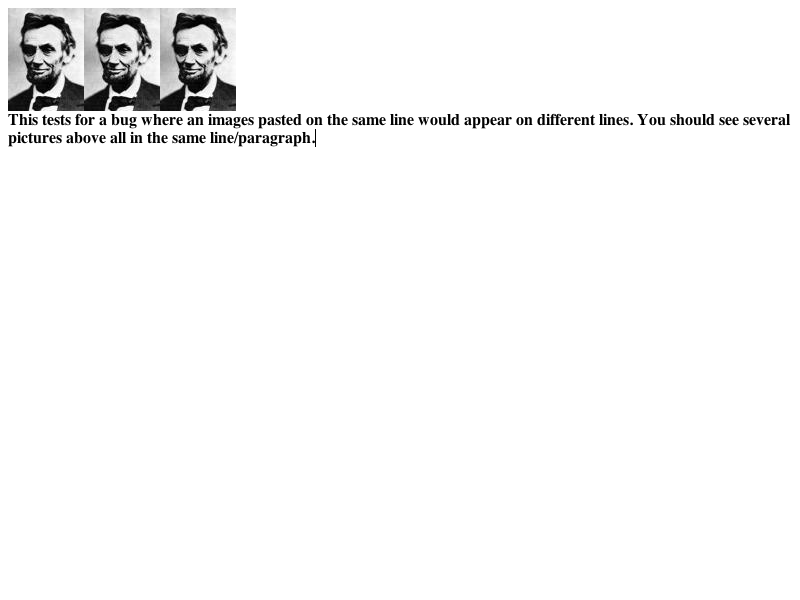
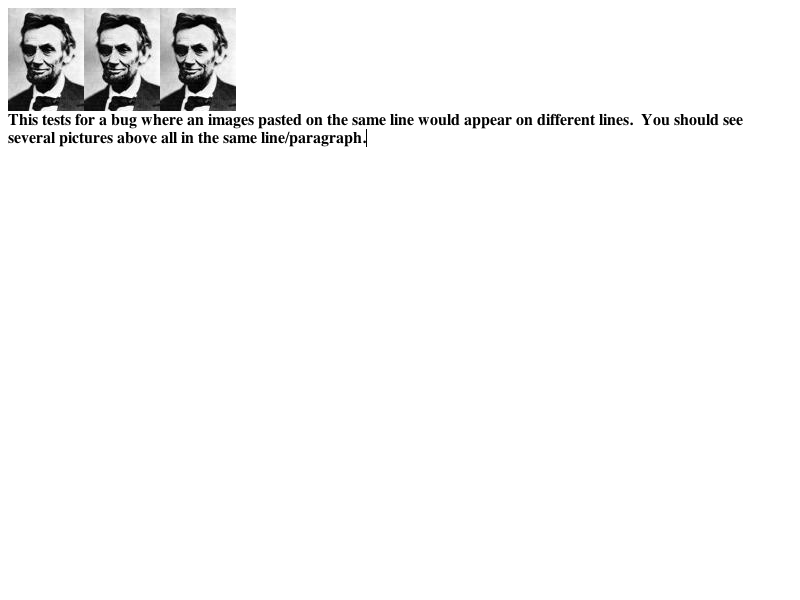
LayoutTests:
Reviewed by darin

        <rdar://problem/5002441>
        Pressing space key does nothing above quoted content or a signature

        Demonstrates the bug:
        * editing/inserting/5002441-expected.checksum: Added.
        * editing/inserting/5002441-expected.png: Added.
        * editing/inserting/5002441-expected.txt: Added.
        * editing/inserting/5002441.html: Added.

        Fixed.  Spaces passed to execCommand("InsertText", ...)
        are no longer collapsed:
        * editing/inserting/editable-html-element-expected.checksum:
        * editing/inserting/editable-html-element-expected.png:
        * editing/inserting/editable-html-element-expected.txt:
        * editing/pasteboard/4989774-expected.checksum:
        * editing/pasteboard/4989774-expected.png:
        * editing/pasteboard/4989774-expected.txt:
        * editing/selection/4983858-expected.checksum:
        * editing/selection/4983858-expected.png:
        * editing/selection/4983858-expected.txt:

WebCore:

        Reviewed by darin

        <rdar://problem/5002441>
        Pressing space key does nothing above quoted content or a signature

        Inserting a space under these circumstances inserts a single
        text node containing a regular space and then does a layout.
        That space isn't rendered (which is correct).  Whitespace
        rebalancing is supposed to correct it but failed.  It replaces
        the space with a non-breaking space, but that change doesn't
[…]

Changed region(s): [[0.0, 0.21, 0.4688, 0.24], [0.7812, 0.18, 1.0, 0.21]]

diff --git a/LayoutTests/editing/inserting/5002441.html b/LayoutTests/editing/inserting/5002441.html
@@ -1,0 +1,8 @@
+<p>This tests for a bug where spaces couldn't be inserted before signatures and replies.</p>
+<div id="div" contenteditable="true"><br><div>There should be a single space in the paragraph above.</div></div>
+<script>
+var div = document.getElementById("div");
+var selection = window.getSelection();
+selection.setPosition(div, 0);
+document.execCommand("InsertText", false, " ");
+</script>

diff --git a/WebCore/editing/InsertTextCommand.cpp b/WebCore/editing/InsertTextCommand.cpp
@@ -26,6 +26,7 @@
 #include "config.h"
 #include "InsertTextCommand.h"
 
+#include "CharacterNames.h"
 #include "CSSMutableStyleDeclaration.h"
 #include "CSSComputedStyleDeclaration.h"
 #include "Document.h"
@@ -63,15 +64,9 @@ Position InsertTextCommand::prepareForTextInsertion(const Position& p)
     }
     // Prepare for text input by looking at the specified position.
     // It may be necessary to insert a text node to receive characters.
-    // FIXME: What is the rootEditable() check about?  Seems like it
-    // assumes that the content before (or after) pos.node() is editable
-    // (i.e. pos is at an editable/non-editable boundary).  That seems
-    // like a bad assumption.
     if (!pos.node()->isTextNode()) {
         RefPtr<Node> textNode = document()->createEditingTextNode("");
-
         insertNodeAt(textNode.get(), pos);
-        
         return Position(textNode.get(), 0);
     }
 
@@ -84,12 +79,21 @@ Position InsertTextCommand::prepareForTextInsertion(const Position& p)
     return pos;
 }
 
-void InsertTextCommand::input(const String &text, bool selectInsertedText)
+void InsertTextCommand::input(const String& originalText, bool selectInsertedText)
 {
+    String text = originalText;
+    
     ASSERT(text.find('\n') == -1);
 
     if (endingSelection().isNone())
         return;
+        
+    if (RenderObject* renderer = endingSelection().start().node()->renderer())
+        if (renderer->style()->collapseWhiteSpace())
+            // Turn all spaces into non breaking spaces, to make sure that they are treated
+            // literally, and aren't collapsed after insertion. They will be rebalanced 
+            // (turned into a sequence of regular and non breaking spaces) below.
+            text.replace(' ', noBreakSpace);
     
     // Delete the current selection.
     // FIXME: This delete operation blows away the typing style.
@@ -127,7 +131,7 @@ void InsertTextCommand::input(const String &text, bool selectInsertedText)
         // The insertion may require adjusting adjacent whitespace, if it is present.
         rebalanceWhitespaceAt(endPosition);
         // Rebalancing on both sides isn't necessary if we've inserted a space.
-        if (text != " ") 
+        if (originalText != " ") 
             rebalanceWhitespaceAt(startPosition);
             
         m_charactersAdded += text.length();
